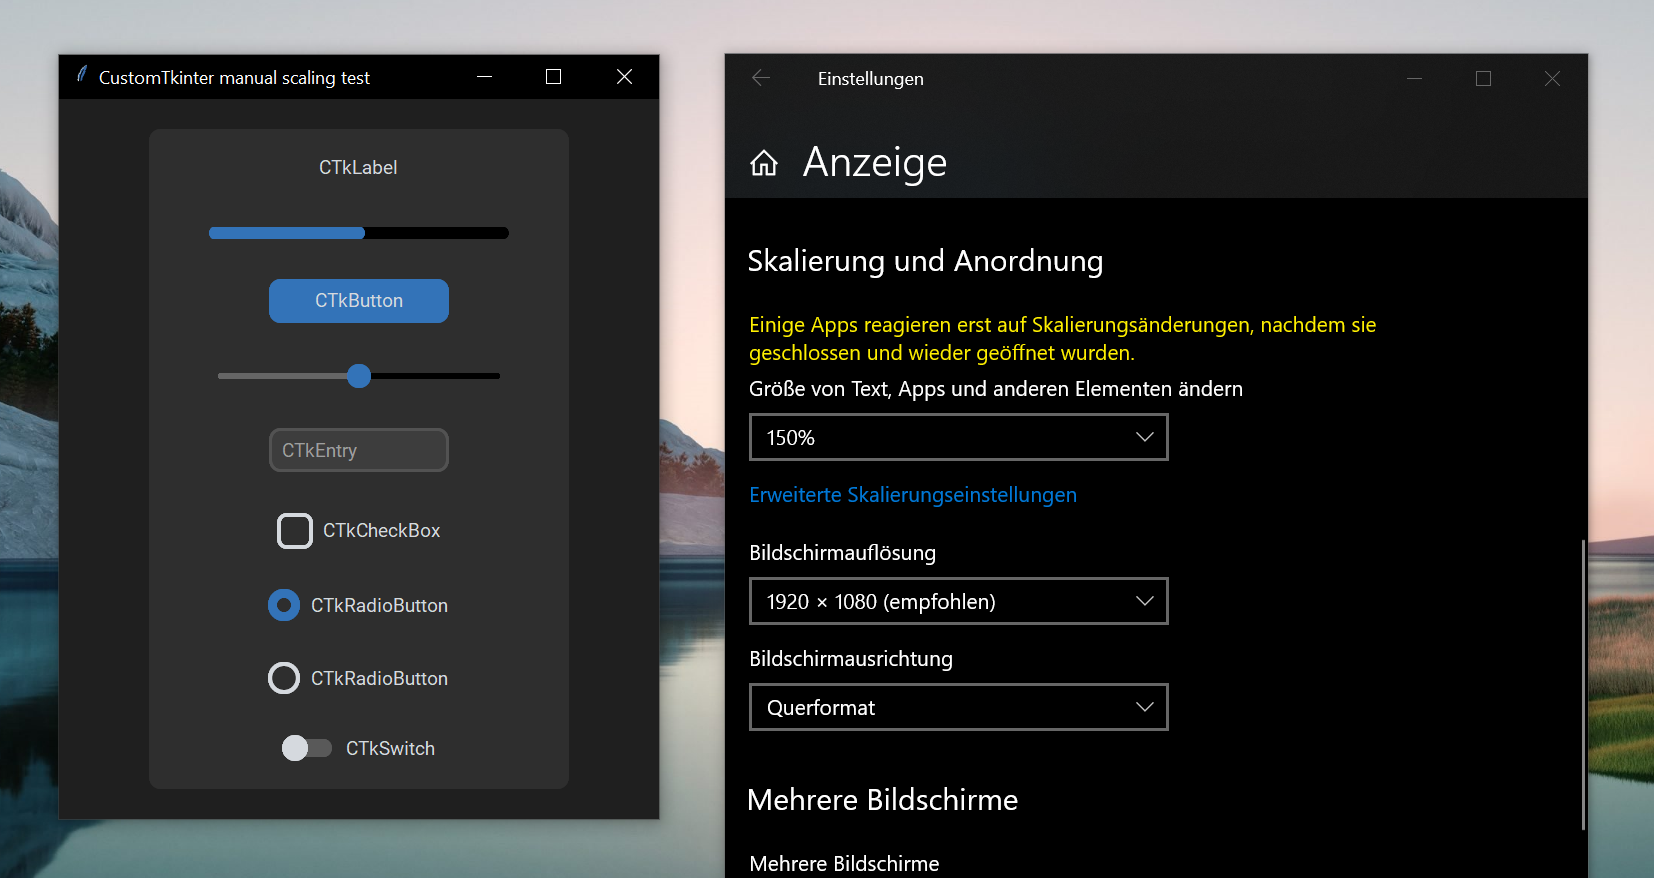
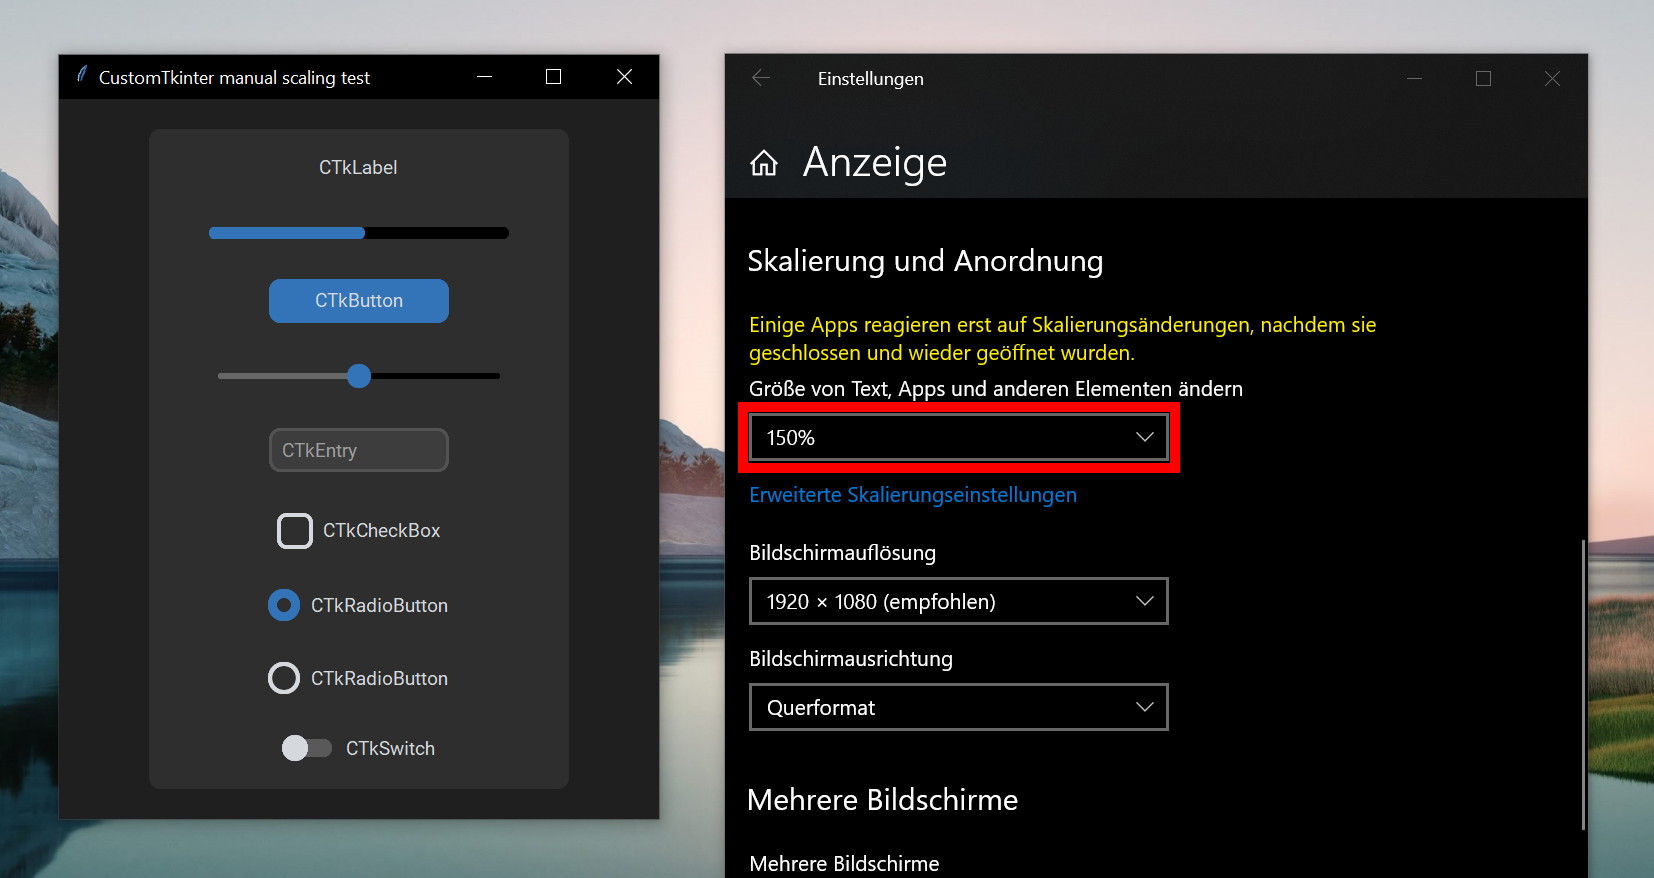
added disabled state to CTkSwitch

Changed region(s): [[0.4317, 0.4305, 0.74, 0.5535]]

diff --git a/customtkinter/widgets/ctk_switch.py b/customtkinter/widgets/ctk_switch.py
@@ -13,6 +13,7 @@ class CTkSwitch(CTkBaseClass):
                  text="CTkSwitch",
                  text_font="default_theme",
                  text_color="default_theme",
+                 text_color_disabled="default_theme",
                  bg_color=None,
                  border_color=None,
                  fg_color="default_theme",
@@ -30,6 +31,7 @@ class CTkSwitch(CTkBaseClass):
                  offvalue=0,
                  variable=None,
                  textvariable=None,
+                 state=tkinter.NORMAL,
                  **kwargs):
 
         # transfer basic functionality (bg_color, size, appearance_mode, scaling) to CTkBaseClass
@@ -42,6 +44,7 @@ class CTkSwitch(CTkBaseClass):
         self.button_color = ThemeManager.theme["color"]["switch_button"] if button_color == "default_theme" else button_color
         self.button_hover_color = ThemeManager.theme["color"]["switch_button_hover"] if button_hover_color == "default_theme" else button_hover_color
         self.text_color = ThemeManager.theme["color"]["text"] if text_color == "default_theme" else text_color
+        self.text_color_disabled = ThemeManager.theme["color"]["text_button_disabled"] if text_color_disabled == "default_theme" else text_color_disabled
 
         # text
         self.text = text
@@ -55,6 +58,7 @@ class CTkSwitch(CTkBaseClass):
         self.button_length = ThemeManager.theme["shape"]["switch_button_length"] if button_length == "default_theme" else button_length
         self.hover_state = False
         self.check_state = False  # True if switch is activated
+        self.state = state
         self.onvalue = onvalue
         self.offvalue = offvalue
 
@@ -119,10 +123,16 @@ class CTkSwitch(CTkBaseClass):
 
     def set_cursor(self):
         if Settings.cursor_manipulation_enabled:
-            if sys.platform == "darwin" and Settings.cursor_manipulation_enabled:
-                self.canvas.configure(cursor="pointinghand")
-            elif sys.platform.startswith("win") and Settings.cursor_manipulation_enabled:
-                self.canvas.configure(cursor="hand2")
+            if self.state == tkinter.DISABLED:
+                if sys.platform == "darwin" and Settings.cursor_manipulation_enabled:
+                    self.canvas.configure(cursor="arrow")
+                elif sys.platform.startswith("win") and Settings.cursor_manipulation_enabled:
+                    self.canvas.configure(cursor="arrow")
+            else:
+                if sys.platform == "darwin" and Settings.cursor_manipulation_enabled:
+                    self.canvas.configure(cursor="pointinghand")
+                elif sys.platform.startswith("win") and Settings.cursor_manipulation_enabled:
+                    self.canvas.configure(cursor="hand2")
 
     def draw(self, no_color_updates=False):
 
@@ -178,7 +188,11 @@ class CTkSwitch(CTkBaseClass):
             if self.textvariable is not None:
                 self.text_label.configure(textvariable=self.textvariable)
 
-        self.text_label.configure(fg=ThemeManager.single_color(self.text_color, self.appearance_mode))
+        if self.state == tkinter.DISABLED:
+            self.text_label.configure(fg=(ThemeManager.single_color(self.text_color_disabled, self.appearance_mode)))
+        else:
+            self.text_label.configure(fg=ThemeManager.single_color(self.text_color, self.appearance_mode))
+
         self.text_label.configure(bg=ThemeManager.single_color(self.bg_color, self.appearance_mode))
 
         self.set_text(self.text)
@@ -189,54 +203,59 @@ class CTkSwitch(CTkBaseClass):
             self.text_label.configure(text=self.text)
 
     def toggle(self, event=None):
-        if self.check_state is True:
-            self.check_state = False
-        else:
-            self.check_state = True
+        if self.state is not tkinter.DISABLED:
+            if self.check_state is True:
+                self.check_state = False
+            else:
+                self.check_state = True
 
-        self.draw(no_color_updates=True)
+            self.draw(no_color_updates=True)
 
-        if self.callback_function is not None:
-            self.callback_function()
+            if self.callback_function is not None:
+                self.callback_function()
 
-        if self.variable is not None:
-            self.variable_callback_blocked = True
-            self.variable.set(self.onvalue if self.check_state is True else self.offvalue)
-            self.variable_callback_blocked = False
+            if self.variable is not None:
+                self.variable_callback_blocked = True
+                self.variable.set(self.onvalue if self.check_state is True else self.offvalue)
+                self.variable_callback_blocked = False
 
     def select(self, from_variable_callback=False):
-        self.check_state = True
+        if self.state is not tkinter.DISABLED or from_variable_callback:
+            self.check_state = True
 
-        self.draw(no_color_updates=True)
+            self.draw(no_color_updates=True)
 
-        if self.callback_function is not None:
-            self.callback_function()
+            if self.callback_function is not None:
+                self.callback_function()
 
-        if self.variable is not None and not from_variable_callback:
-            self.variable_callback_blocked = True
-            self.variable.set(self.onvalue)
-            self.variable_callback_blocked = False
+            if self.variable is not None and not from_variable_callback:
+                self.variable_callback_blocked = True
+                self.variable.set(self.onvalue)
+                self.variable_callback_blocked = False
 
     def deselect(self, from_variable_callback=False):
-        self.check_state = False
+        if self.state is not tkinter.DISABLED or from_variable_callback:
+            self.check_state = False
 
-        self.draw(no_color_updates=True)
+            self.draw(no_color_updates=True)
 
-        if self.callback_function is not None:
-            self.callback_function()
+            if self.callback_function is not None:
+                self.callback_function()
 
-        if self.variable is not None and not from_variable_callback:
-            self.variable_callback_blocked = True
-            self.variable.set(self.offvalue)
-            self.variable_callback_blocked = False
+            if self.variable is not None and not from_variable_callback:
+                self.variable_callback_blocked = True
+                self.variable.set(self.offvalue)
+                self.variable_callback_blocked = False
 
     def get(self):
         return self.onvalue if self.check_state is True else self.offvalue
 
     def on_enter(self, event=0):
         self.hover_state = True
-        self.canvas.itemconfig("slider_parts", fill=ThemeManager.single_color(self.button_hover_color, self.appearance_mode),
-                               outline=ThemeManager.single_color(self.button_hover_color, self.appearance_mode))
+
+        if self.state is not tkinter.DISABLED:
+            self.canvas.itemconfig("slider_parts", fill=ThemeManager.single_color(self.button_hover_color, self.appearance_mode),
+                                   outline=ThemeManager.single_color(self.button_hover_color, self.appearance_mode))
 
     def on_leave(self, event=0):
         self.hover_state = False
@@ -252,6 +271,12 @@ class CTkSwitch(CTkBaseClass):
 
     def configure(self, *args, **kwargs):
         require_redraw = False  # some attribute changes require a call of self.draw() at the end
+
+        if "state" in kwargs:
+            self.state = kwargs["state"]
+            self.set_cursor()
+            require_redraw = True
+            del kwargs["state"]
 
         if "fg_color" in kwargs:
             self.fg_color = kwargs["fg_color"]

diff --git a/customtkinter/windows/ctk_tk.py b/customtkinter/windows/ctk_tk.py
@@ -69,7 +69,6 @@ class CTk(tkinter.Tk):
         if self.current_width != round(detected_width / self.window_scaling) or self.current_height != round(detected_height / self.window_scaling):
             self.current_width = round(detected_width / self.window_scaling)  # adjust current size according to new size given by event
             self.current_height = round(detected_height / self.window_scaling)  # current_width and current_height are independent of the scale
-            print("update_dimensions_event:", self.current_width)
 
     def set_scaling(self, new_widget_scaling, new_spacing_scaling, new_window_scaling):
         self.window_scaling = new_window_scaling
@@ -78,7 +77,6 @@ class CTk(tkinter.Tk):
         super().minsize(self.apply_window_scaling(self.current_width), self.apply_window_scaling(self.current_height))
         super().maxsize(self.apply_window_scaling(self.current_width), self.apply_window_scaling(self.current_height))
         super().geometry(f"{self.apply_window_scaling(self.current_width)}x"+f"{self.apply_window_scaling(self.current_height)}")
-        print("set_scaling:", self.apply_window_scaling(self.current_width), self.max_width, self.min_width)
 
         # set new scaled min and max with 400ms delay (otherwise it won't work for some reason)
         self.after(400, self.set_scaled_min_max)
@@ -103,7 +101,6 @@ class CTk(tkinter.Tk):
 
     def mainloop(self, *args, **kwargs):
         if not self.window_exists:
-            print("deiconify")
             self.deiconify()
             self.window_exists = True
         super().mainloop(*args, **kwargs)
@@ -133,7 +130,6 @@ class CTk(tkinter.Tk):
         super().maxsize(self.apply_window_scaling(self.max_width), self.apply_window_scaling(self.max_height))
 
     def geometry(self, geometry_string):
-        print("geometry:", geometry_string)
         super().geometry(self.apply_geometry_scaling(geometry_string))
 
         # update width and height attributes

diff --git a/test/unit_tests/test_ctk_toplevel.py b/test/unit_tests/test_ctk_toplevel.py
@@ -64,20 +64,15 @@ class TestCTkToplevel():
 
         customtkinter.ScalingTracker.set_window_scaling(1.5)
         self.ctk_toplevel.geometry("300x400")
-        self.ctk_toplevel.update()
         assert self.ctk_toplevel.current_width == 300 and self.ctk_toplevel.current_height == 400
-        assert round(self.ctk_toplevel.winfo_width()) == 450 and round(self.ctk_toplevel.winfo_height()) == 600
+        assert self.root_ctk.window_scaling == 1.5 * customtkinter.ScalingTracker.get_window_dpi_scaling(self.root_ctk)
 
         self.ctk_toplevel.maxsize(400, 500)
         self.ctk_toplevel.geometry("500x500")
-        self.ctk_toplevel.update()
         assert self.ctk_toplevel.current_width == 400 and self.ctk_toplevel.current_height == 500
-        assert round(self.ctk_toplevel.winfo_width()) == 600 and round(self.ctk_toplevel.winfo_height()) == 750
 
         customtkinter.ScalingTracker.set_window_scaling(1)
-        self.ctk_toplevel.update()
         assert self.ctk_toplevel.current_width == 400 and self.ctk_toplevel.current_height == 500
-        assert round(self.ctk_toplevel.winfo_width()) == 400 and round(self.ctk_toplevel.winfo_height()) == 500
         print("successful")
 
     def test_configure(self):

diff --git a/test/unit_tests/test_ctk.py b/test/unit_tests/test_ctk.py
@@ -62,20 +62,15 @@ class TestCTk():
 
         customtkinter.ScalingTracker.set_window_scaling(1.5)
         self.root_ctk.geometry("300x400")
-        self.root_ctk.update()
         assert self.root_ctk.current_width == 300 and self.root_ctk.current_height == 400
-        assert round(self.root_ctk.winfo_width()) == 450 and round(self.root_ctk.winfo_height()) == 600
+        assert self.root_ctk.window_scaling == 1.5 * customtkinter.ScalingTracker.get_window_dpi_scaling(self.root_ctk)
 
         self.root_ctk.maxsize(400, 500)
         self.root_ctk.geometry("500x500")
-        self.root_ctk.update()
         assert self.root_ctk.current_width == 400 and self.root_ctk.current_height == 500
-        assert round(self.root_ctk.winfo_width()) == 600 and round(self.root_ctk.winfo_height()) == 750
 
         customtkinter.ScalingTracker.set_window_scaling(1)
-        self.root_ctk.update()
         assert self.root_ctk.current_width == 400 and self.root_ctk.current_height == 500
-        assert round(self.root_ctk.winfo_width()) == 400 and round(self.root_ctk.winfo_height()) == 500
         print("successful")
 
     def test_configure(self):

diff --git a/test/manual_integration_tests/test_widget_states.py b/test/manual_integration_tests/test_widget_states.py
@@ -1,0 +1,31 @@
+import tkinter
+import customtkinter
+
+
+root_tk = customtkinter.CTk()
+root_tk.geometry("400x240")
+root_tk.title("CustomTkinter Test")
+
+
+def change_state(widget):
+    if widget.state == tkinter.NORMAL:
+        widget.configure(state=tkinter.DISABLED)
+    elif widget.state == tkinter.DISABLED:
+        widget.configure(state=tkinter.NORMAL)
+
+
+def button_2_click():
+    print("button_2 clicked")
+
+
+button_1 = customtkinter.CTkButton(master=root_tk, text="button_1", command=button_2_click)
+button_1.pack(padx=20, pady=10)
+button_2 = customtkinter.CTkButton(master=root_tk, text="Disable/Enable button_1", command=lambda: change_state(button_1))
+button_2.pack(padx=20, pady=10)
+
+switch_1 = customtkinter.CTkSwitch(master=root_tk, text="switch_1", command=button_2_click)
+switch_1.pack(padx=20, pady=10)
+switch_2 = customtkinter.CTkSwitch(master=root_tk, text="Disable/Enable switch_1", command=lambda: change_state(switch_1))
+switch_2.pack(padx=20, pady=10)
+
+root_tk.mainloop()

diff --git a/customtkinter/windows/ctk_toplevel.py b/customtkinter/windows/ctk_toplevel.py
@@ -73,7 +73,6 @@ class CTkToplevel(tkinter.Toplevel):
         super().maxsize(self.apply_window_scaling(self.current_width), self.apply_window_scaling(self.current_height))
         super().geometry(
             f"{self.apply_window_scaling(self.current_width)}x" + f"{self.apply_window_scaling(self.current_height)}")
-        print("set_scaling:", self.apply_window_scaling(self.current_width), self.max_width, self.min_width)
 
         # set new scaled min and max with 400ms delay (otherwise it won't work for some reason)
         self.after(400, self.set_scaled_min_max)

diff --git a/test/manual_integration_tests/test_askdialog.py b/test/manual_integration_tests/test_askdialog.py
@@ -32,7 +32,6 @@ class App(customtkinter.CTk):
                                                 height=App.HEIGHT-40,
                                                 corner_radius=5)
         self.frame_left.place(relx=0.38, rely=0.5, anchor=tkinter.E)
-        print(self.frame_left.widget_scaling)
 
         self.frame_right = customtkinter.CTkFrame(master=self,
                                                 width=350,

diff --git a/test/manual_integration_tests/test_ctk_toplevel.py b/test/manual_integration_tests/test_ctk_toplevel.py
@@ -15,8 +15,6 @@ class ExampleApp(customtkinter.CTk):
         window = customtkinter.CTkToplevel(self)
         window.geometry("400x200")
 
-        print(window.master.winfo_class())
-
         label = customtkinter.CTkLabel(window, text="CTkToplevel window")
         label.pack(side="top", fill="both", expand=True, padx=40, pady=40)
 

diff --git a/test/manual_integration_tests/test_scaling/test_scaling_toplevel_pack.py b/test/manual_integration_tests/test_scaling/test_scaling_toplevel_pack.py
@@ -25,7 +25,8 @@ def button_function():
 
 def slider_function(value):
     customtkinter.set_widget_scaling(value * 2)
-    customtkinter.ScalingTracker.set_window_scaling(value * 2)
+    customtkinter.set_spacing_scaling(value * 2)
+    customtkinter.set_window_scaling(value * 2)
     progressbar_1.set(value)
 
 

diff --git a/CHANGELOG.md b/CHANGELOG.md
@@ -1,6 +1,17 @@
 # Changelog
 All notable changes to this project will be documented in this file.
 
-The format is based on [Keep a Changelog](https://keepachangelog.com/en/1.0.0/).
+The format is based on [Keep a Changelog](https://keepachangelog.com/en/1.0.0/),
+and this project adheres to [Semantic Versioning](https://semver.org/spec/v2.0.0.html).
 
-*This document is a WIP.*
+## [4.0.0] - 2022-05-22
+### Added
+ - This changelog file
+ - Adopted semantic versioning
+ - Added HighDPI scaling to all widgets and geometry managers (place, pack, grid)
+ - Restructured CTkSettings and renamed a few manager classes
+
+### Changed
+
+### Removed
+ - A few unnecessary tests
